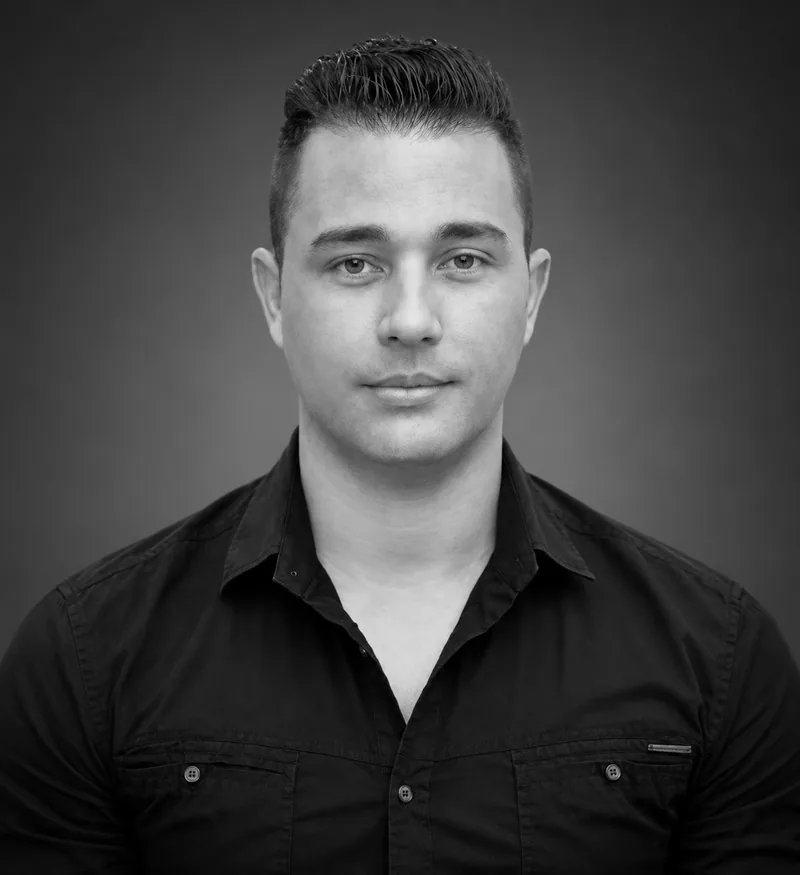
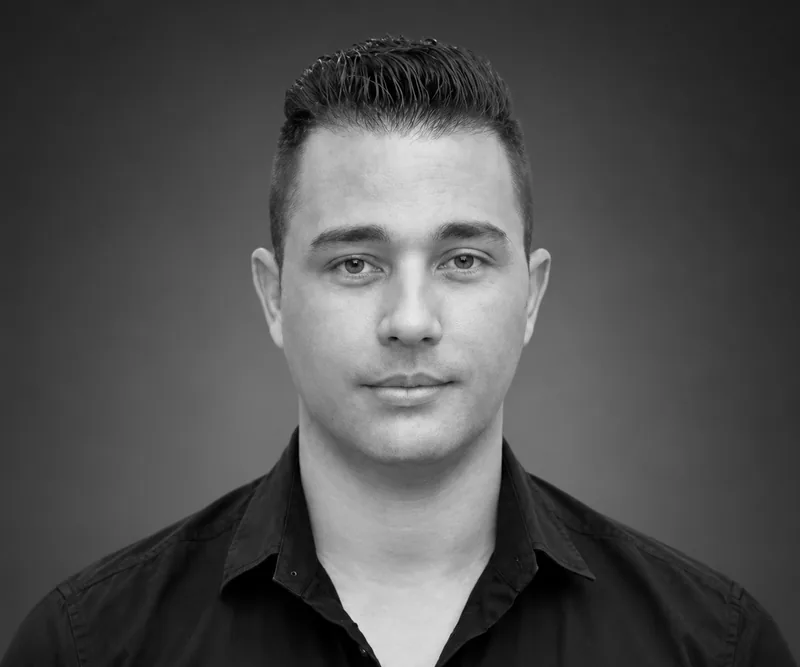
fix: crop the hero portrait at the first shirt button

diff --git a/src/sections/Hero.jsx b/src/sections/Hero.jsx
@@ -26,7 +26,7 @@ export const Hero = () => {
             </TrackVisibility>
           </Col>
           <Col xs={12} lg={5} className="text-center text-lg-end">
-            <img className="hero-portrait" src={portrait} alt={t.hero.photoAlt} width="800" height="875" fetchPriority="high" />
+            <img className="hero-portrait" src={portrait} alt={t.hero.photoAlt} width="800" height="667" fetchPriority="high" />
           </Col>
         </Row>
       </Container>
